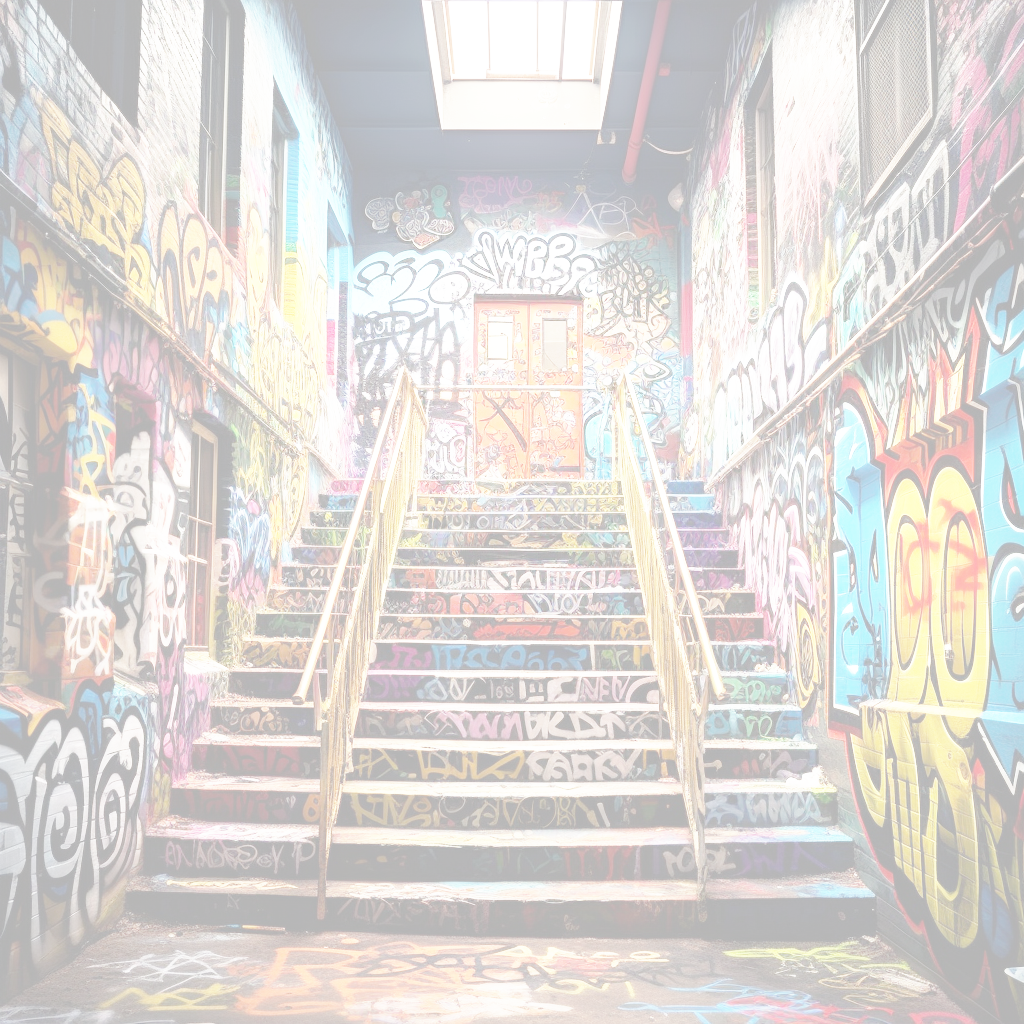
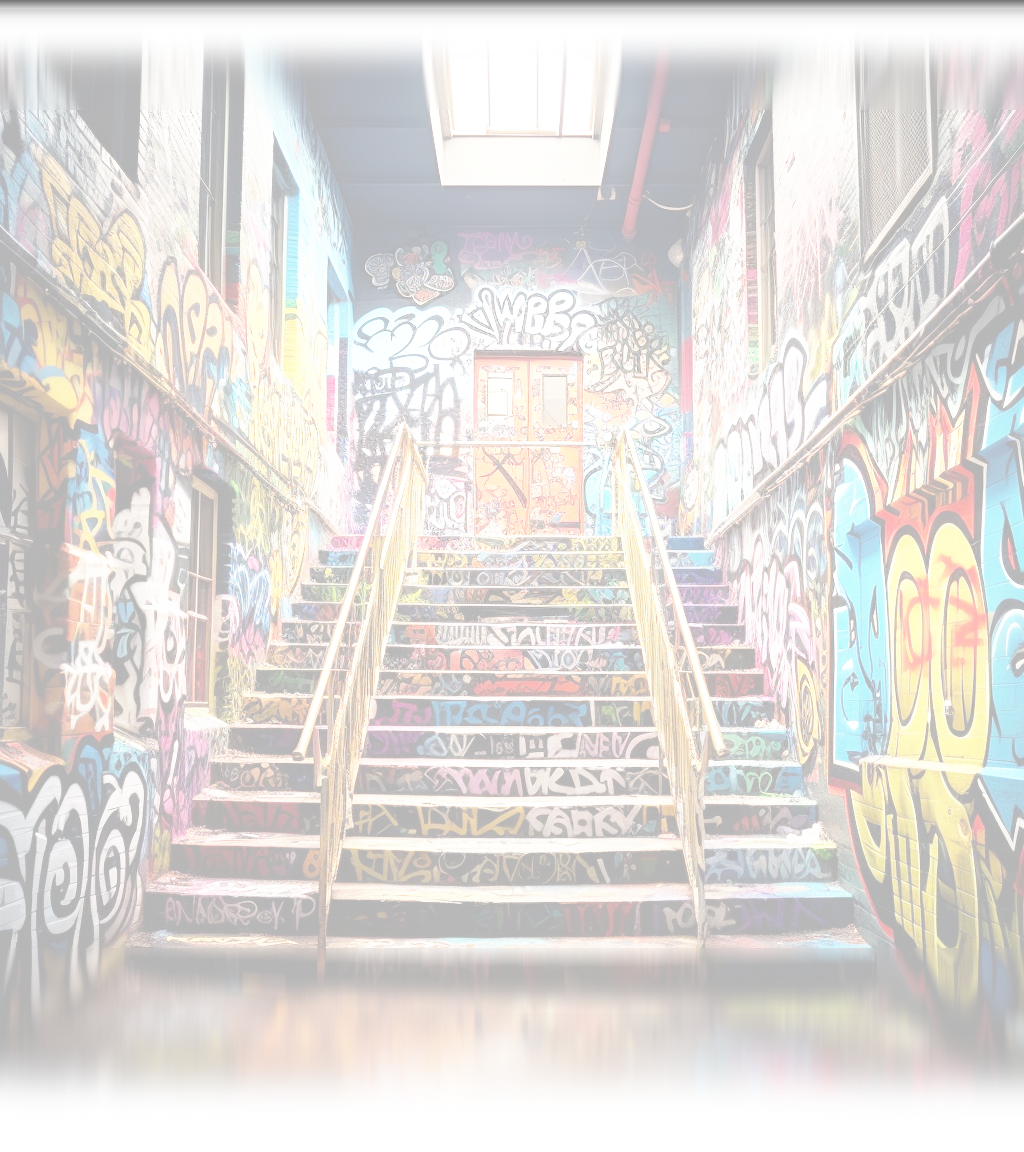
Added Fading to BG

diff --git a/styles.css b/styles.css
@@ -130,7 +130,7 @@ li, a, button {
     cursor: pointer;
     width: 25px;
     height: 3px;
-    background-color: #ece0f1;
+    background-color: #000000;
     margin: 5px 0;
     transition: all 0.3s ease 0s;
     opacity: 0.8;
@@ -306,7 +306,7 @@ textarea {
     li, a, button {
         font-family: 'Graffitti New Demo', sans-serif;
         font-weight: 500;
-        font-size: 6vw;
+        font-size: 10vw;
         color: #000000;
         text-decoration: none;
     }
